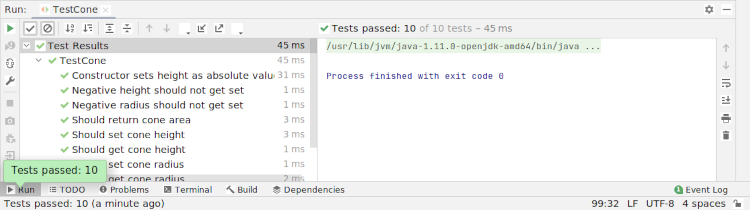
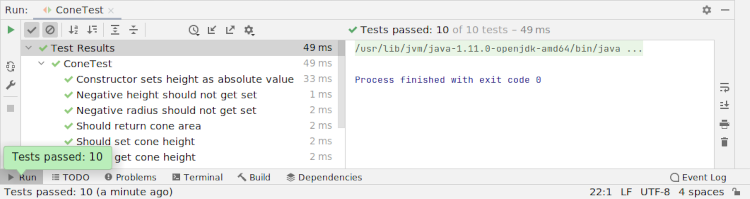
consistent naming

diff --git a/exercises/cone/index.md b/exercises/cone/index.md
@@ -86,15 +86,15 @@ Hier wordt aangeven dat als een nieuw `Cone` object wordt aangemaakt met een neg
 
 De methode `assertEquals` vergelijkt het resultaat van de aangeroepen methode met een te verwachte returnwaarde, de test slaagt indien de waarden gelijk zijn, anders faalt de test.
 
-In deze opgave ga jij de klasse `Cone` schrijven en zal je steeds de tests in de klasse `TestCone` uitvoeren om te zien of jouw oplossing correct is.
+In deze opgave ga jij de klasse `Cone` schrijven en zal je steeds de tests in de klasse `ConeTest` uitvoeren om te zien of jouw oplossing correct is.
 
 ## Opgave
 
-Jouw taak is het schrijven van een klasse `Cone` en je zal gebruik maken van de unittest om jouw oplossing stap voor te testen. De meest eenvoudige manier is om de klasse `TestCone` door de IDE uit te laten voeren.
+Jouw taak is het schrijven van een klasse `Cone` en je zal gebruik maken van de unittest om jouw oplossing stap voor te testen. De meest eenvoudige manier is om de klasse `ConeTest` door de IDE uit te laten voeren.
 
 ![Tests run](images/intellij_tests_run.png)
 
-Het zal je misschien zijn opgevallen dat de klasse `TestCone` geen `main` methode heeft, maar wél kan worden uitgevoerd! Dit is omdat IDE's JUnit kennen en de methoden in de test voor jou één voor één zullen uitvoeren.
+Het zal je misschien zijn opgevallen dat de klasse `ConeTest` geen `main` methode heeft, maar wél kan worden uitgevoerd! Dit is omdat IDE's JUnit kennen en de methoden in de test voor jou één voor één zullen uitvoeren.
 
 ![Tests initial](images/intellij_tests_initial.png)
 
@@ -117,7 +117,7 @@ De klasse `Cone` zal de volgende onderdelen moeten bevatten
 
 -   Constructor(s)
 
-    Constructors maken een nieuwe instantie van een klasse. In dit geval zal een nieuwe instantie worden gecreëerd van de klasse `Cone` met een bepaalde radius en hoogte, uit `ConTest` kan je afleiden dat één constructor nodig is met de volgende signatuur:
+    Constructors maken een nieuwe instantie van een klasse. In dit geval zal een nieuwe instantie worden gecreëerd van de klasse `Cone` met een bepaalde radius en hoogte, uit `ConeTest` kan je afleiden dat één constructor nodig is met de volgende signatuur:
 
     ```java
     public Cone(double radius, double height)
@@ -140,7 +140,7 @@ De klasse `Cone` zal de volgende onderdelen moeten bevatten
 
     -   Andere methoden
 
-        Los van methoden voor toegang tot de velden kunnen andere methoden gespecificeerd worden die relevant zijn, in het geval van een kegel het oppervlak en volume. Uit `TestCone` kan je afleiden dat *twee* aanvullende methoden worden verwacht:
+        Los van methoden voor toegang tot de velden kunnen andere methoden gespecificeerd worden die relevant zijn, in het geval van een kegel het oppervlak en volume. Uit `ConeTest` kan je afleiden dat *twee* aanvullende methoden worden verwacht:
 
         ```java
         public double area()   // calculate and return the area of the cone
@@ -198,7 +198,7 @@ Als je er voor hebt gezorgd dat alle tests kunnen worden uitgevoerd ga je je ver
 
 ### Optioneel
 
-Implementeer een methode `toString` die een tekstrepresentatie geeft van een kegel met een bepaalde afmeting. Kies hier zelf een vorm, bijvoorbeeld `"Cone: heigth 10.0, radius: 5.0"`. Breid de klasse `TestCone` uit met een methode die het resultaat van `toString` test, je kan ook hier de methode `assertEquals` gebruiken zoals je het in andere tests gebruikt ziet worden.
+Implementeer een methode `toString` die een tekstrepresentatie geeft van een kegel met een bepaalde afmeting. Kies hier zelf een vorm, bijvoorbeeld `"Cone: heigth 10.0, radius: 5.0"`. Breid de klasse `ConeTest` uit met een methode die het resultaat van `toString` test, je kan ook hier de methode `assertEquals` gebruiken zoals je het in andere tests gebruikt ziet worden.
 
 ## Tot slot
 
